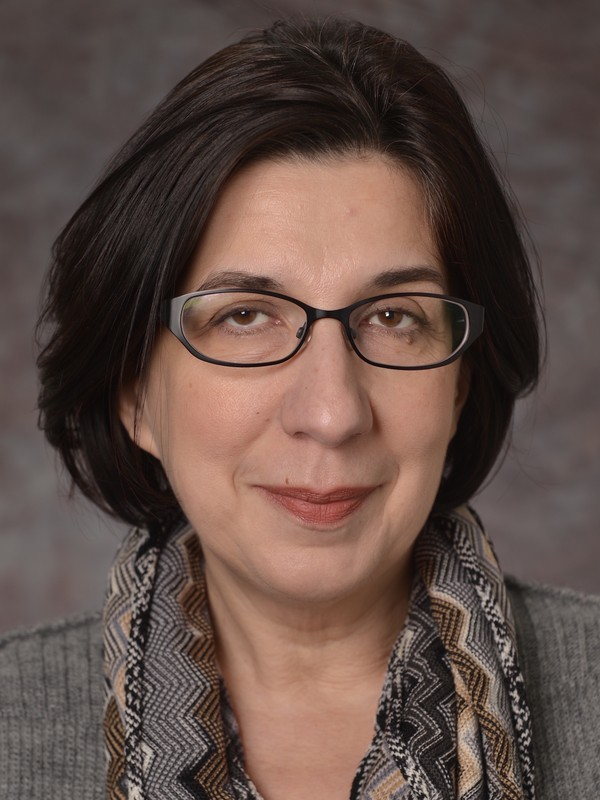
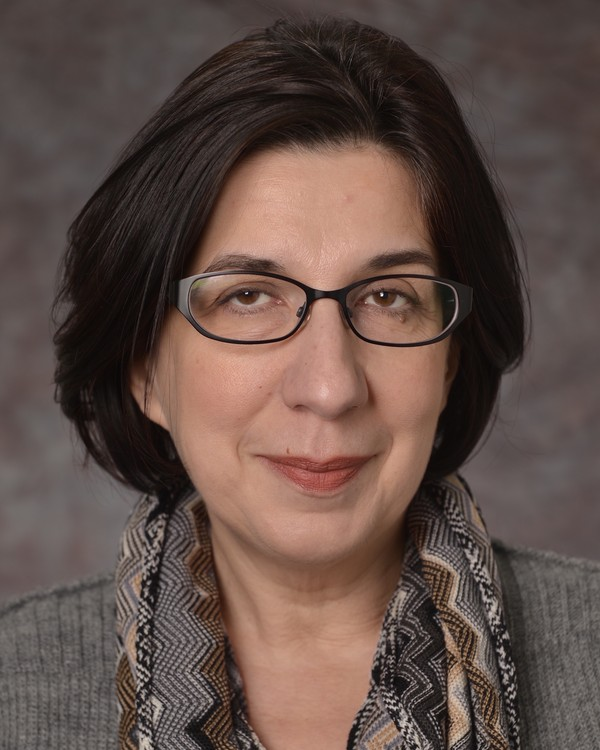
visitors: profile pics re-cropped to a uniform 4:5
Every visitor's profile.jpg is now 4:5, centred on the face (the face
20-25% of it as the room around it allows), and every card shows it in
the same 230 x 288 px box, so the cards line up again.

diff --git a/assets/css/people.css b/assets/css/people.css
@@ -113,18 +113,19 @@ body, html {
   display: block;
 }
 
-/* Profile photos are portraits cropped to the face by the internal editor: 3:4
-   (width 1 : height 1.33), or up to square for small photos. Shown at their own shape,
-   so 230 to 307 px high; the card body fills the rest of the row's height. */
+/* Profile photos are 4:5 portraits (width 4 : height 5) cropped to the face by the
+   internal editor; every card shows them in the same 230 x 288 px box. */
 .visitor-card .card-img-top {
   height: auto;
+  aspect-ratio: 4 / 5;
+  object-fit: cover;
 }
 
 .visitor-card-photo-placeholder {
   display: flex;
   align-items: center;
   justify-content: center;
-  height: 307px;
+  height: 288px;
   background-color: #e9ecef;
   color: #adb5bd;
   font-size: 4rem;
@@ -189,7 +190,7 @@ body, html {
   justify-content: center;
   width: 100%;
   max-width: 300px;
-  aspect-ratio: 3 / 4;
+  aspect-ratio: 4 / 5;
   margin: 0 auto;
   background-color: #e9ecef;
   color: #adb5bd;
